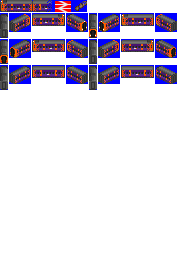
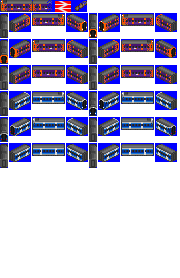
196 added Chiltern livery and tidied up sprite switches

Changed region(s): [[0.0, 0.3165, 1.0, 0.6043]]

diff --git a/build.py b/build.py
@@ -75,13 +75,10 @@ def handle_folder(directory: Path, auto=False):
     if (directory / "sprites").exists():
         file_list.update(handle_folder(directory / "sprites", auto))
         file_list.update(find_files_in_directory(directory / "sprites"))
-
-    # Grab the vehicles
+    
     file_list.update(find_files_in_directory(directory))
 
-    # Automatically look at subdirectories
     if auto:
-        # Don't automatically walk subdirectories, only when auto is set
         exclude_dirs = {"append", "prepend", "sprites"}
         subdirectories = [p for p in directory.iterdir() if p.is_dir() and p.name not in exclude_dirs]
         for subdir in subdirectories:        
